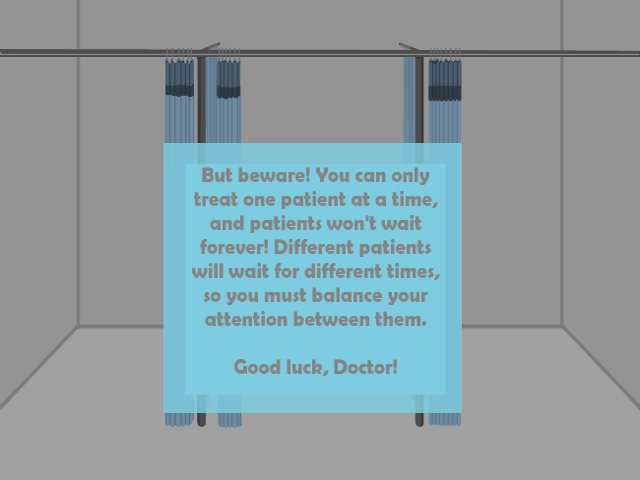
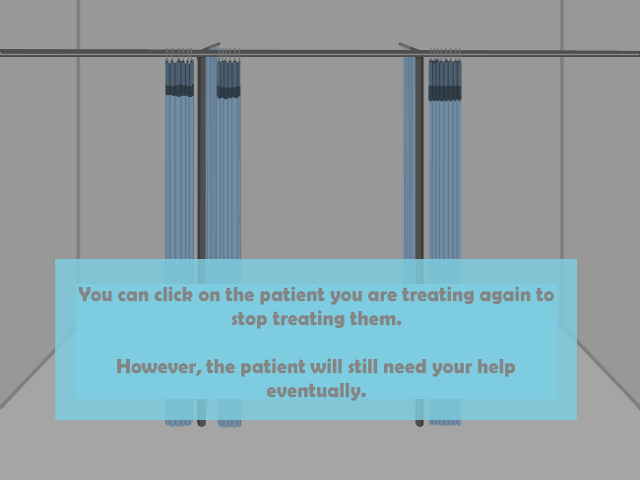
Fixed tutorial order, fixed patient order, moved tutorial to main menu.

Changed region(s): [[0.0625, 0.2812, 0.9062, 0.875]]

diff --git a/src/game.js b/src/game.js
@@ -1289,7 +1289,7 @@ function Patient(x, y) {
 
 	switch(this.type) {
 		case 0:
-			patientString += "Burn_Victim.png";
+			patientString += "Sick_Victim.png";
 
 			this.timerLive = new Timer(Math.ceil(30*ttlMultiplier));
 			this.timerHeal = new Timer(Math.ceil(4*tthMultiplier));
@@ -1305,7 +1305,7 @@ function Patient(x, y) {
 
 			break;
 		case 2:
-			patientString += "Sick_Victim.png";
+			patientString += "Burn_Victim.png";
 
 			this.timerLive = new Timer(Math.ceil(18*ttlMultiplier));
 			this.timerHeal = new Timer(Math.ceil(8*tthMultiplier));
@@ -1601,6 +1601,14 @@ function runGame() {
 
 		mainList.appendSprite(diffMenu);
 	});
+	var mmMenuTutorial = new MenuOption("Tutorial", function() {
+		mainMenu.enabled = false;
+		tutorial.enabled = true;
+
+		mainList.appendSprite(tutorial);
+
+		tutorialAnimation.start();
+	});
 	var mmMenuOptCredits = new MenuOption("Credits", function() {
 		mainMenu.enabled = false;
 		credits.enabled = true;
@@ -1756,14 +1764,6 @@ function runGame() {
 		backgroundMusic.stop();
 		gameplayMusic.play();
 	});
-	var dMenuTutorial = new MenuOption("Tutorial", function() {
-		diffMenu.enabled = false;
-		tutorial.enabled = true;
-
-		mainList.appendSprite(tutorial);
-
-		tutorialAnimation.start();
-	});
 	var dMenuRtn = new MenuOption("Return to menu", function(){ 
 		diffMenu.enabled = false;
 		mainMenu.enabled = true;
@@ -1774,7 +1774,6 @@ function runGame() {
 	dMenu.newOption(dMenuEasy);
 	dMenu.newOption(dMenuMed);
 	dMenu.newOption(dMenuHard);
-	dMenu.newOption(dMenuTutorial);
 	dMenu.newOption(dMenuRtn);
 	
 	dMenu.center(renderingContext);
@@ -1949,17 +1948,21 @@ function runGame() {
 	var tutSlide3 = new Sprite("Tutorial/Tutorial_Three.jpg", function(x, y) {
 
 	});
+	var tutSlide4 = new Sprite("Tutorial/Tutorial_Four.jpg", function(x, y) {
+
+	});
 
 	tutorialAnimation.addSlide(tutSlide1, 0);
 	tutorialAnimation.addSlide(tutSlide2, 0);
 	tutorialAnimation.addSlide(tutSlide3, 0);
+	tutorialAnimation.addSlide(tutSlide4, 0);
 
 	tutorialAnimation.zIndex = 100;
 	tutorialAnimation.onComplete(function() {
 		tutorial.enabled = false;
-		diffMenu.enabled = true;
+		mainMenu.enabled = true;
 
-		mainList.appendSprite(diffMenu);
+		mainList.appendSprite(mainMenu);
 	});
 
 	tutorial.appendSprite(tutorialAnimation);

diff --git a/README.md b/README.md
@@ -21,7 +21,6 @@ chimed
 ### Code
 - Balance game
 - Optimise for smoothness & speed
-- Get patients in correct difficulty order
 
 ### Possible for the Future
 - Goals/levels to work towards
